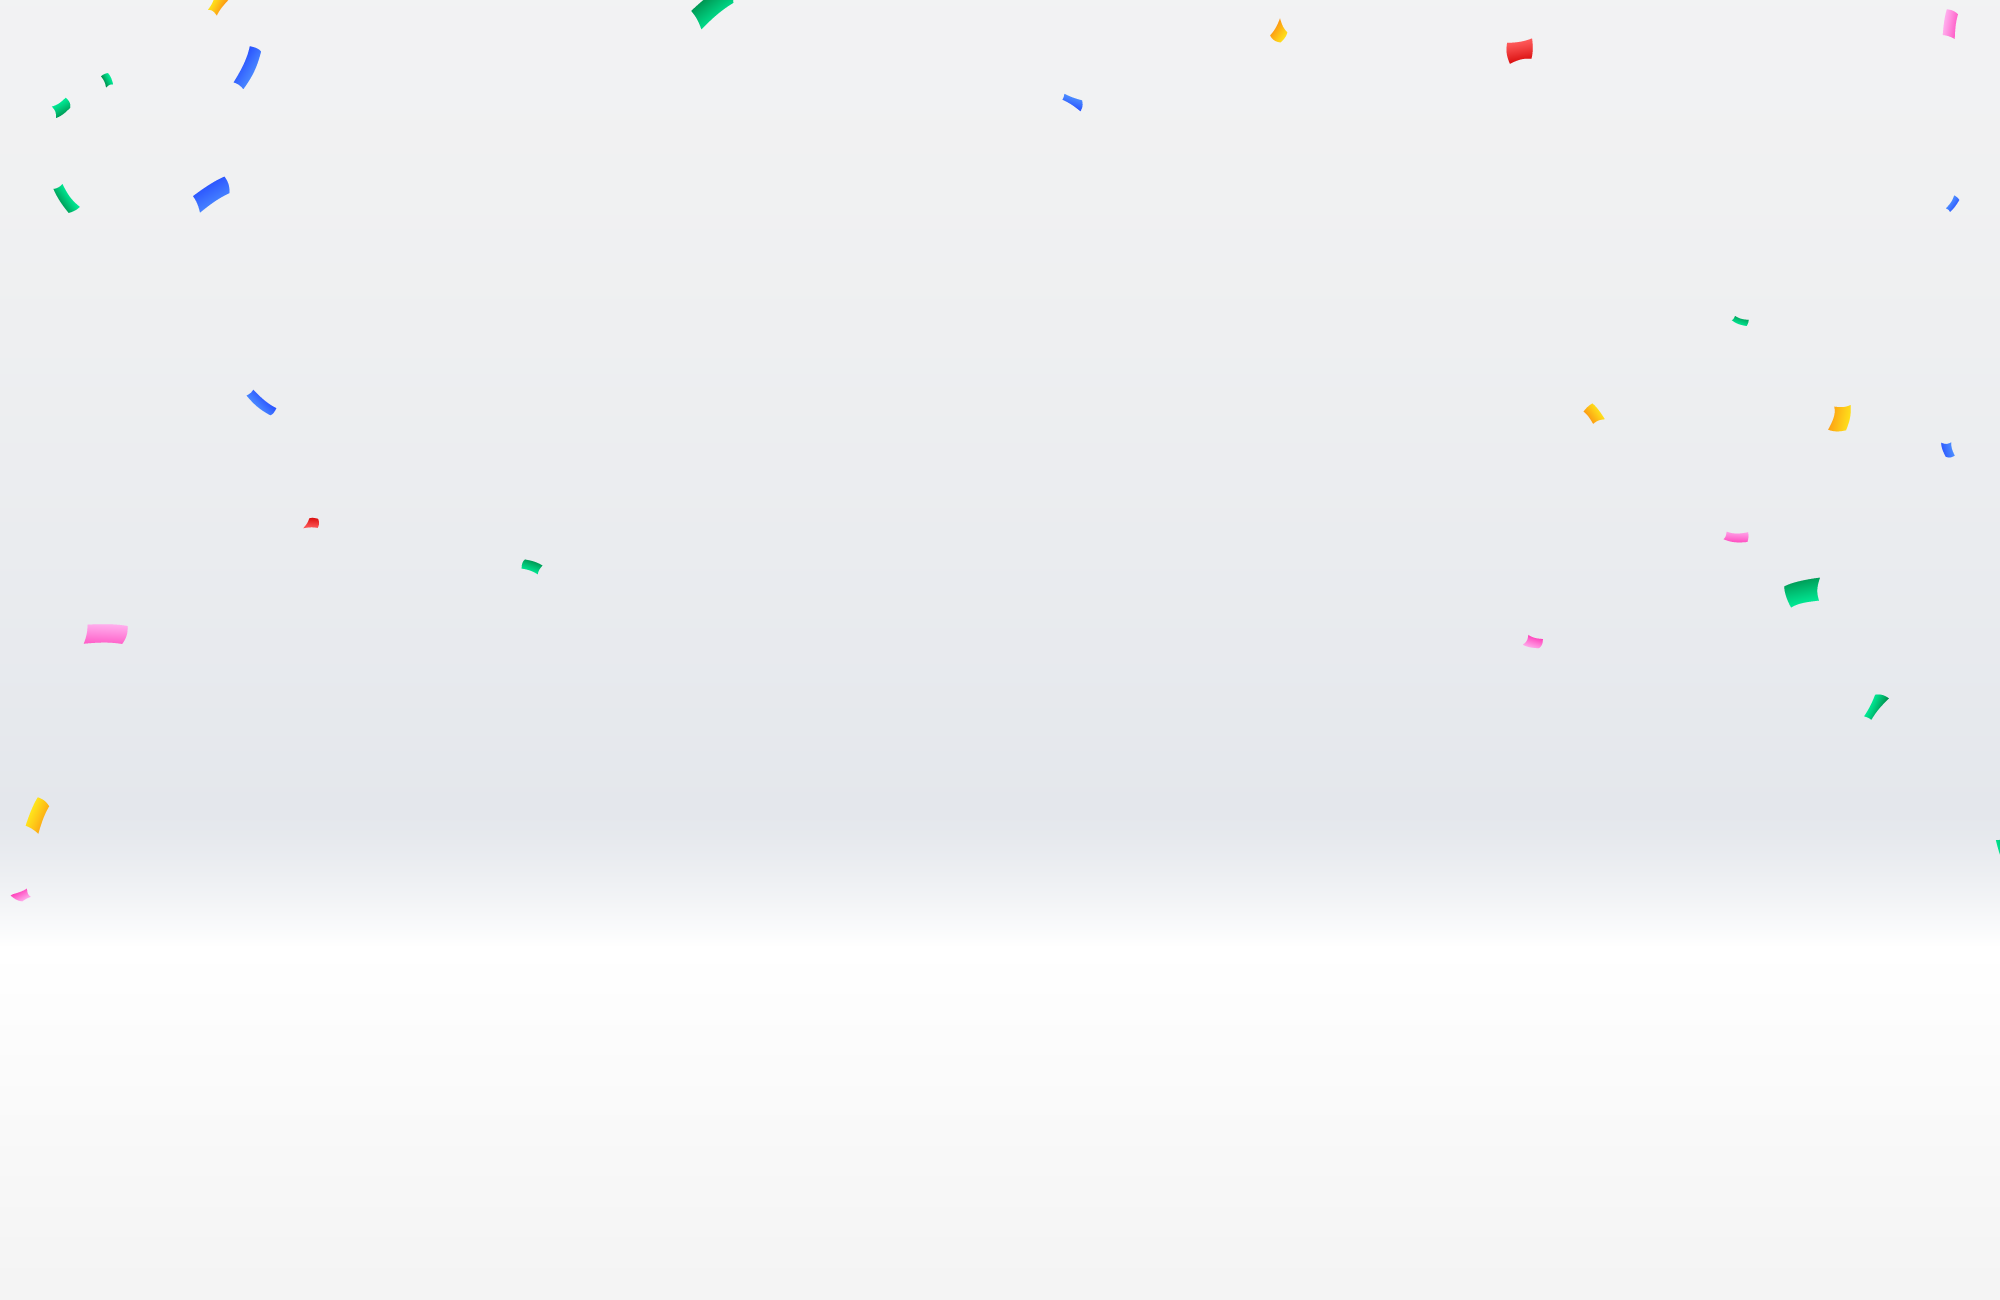
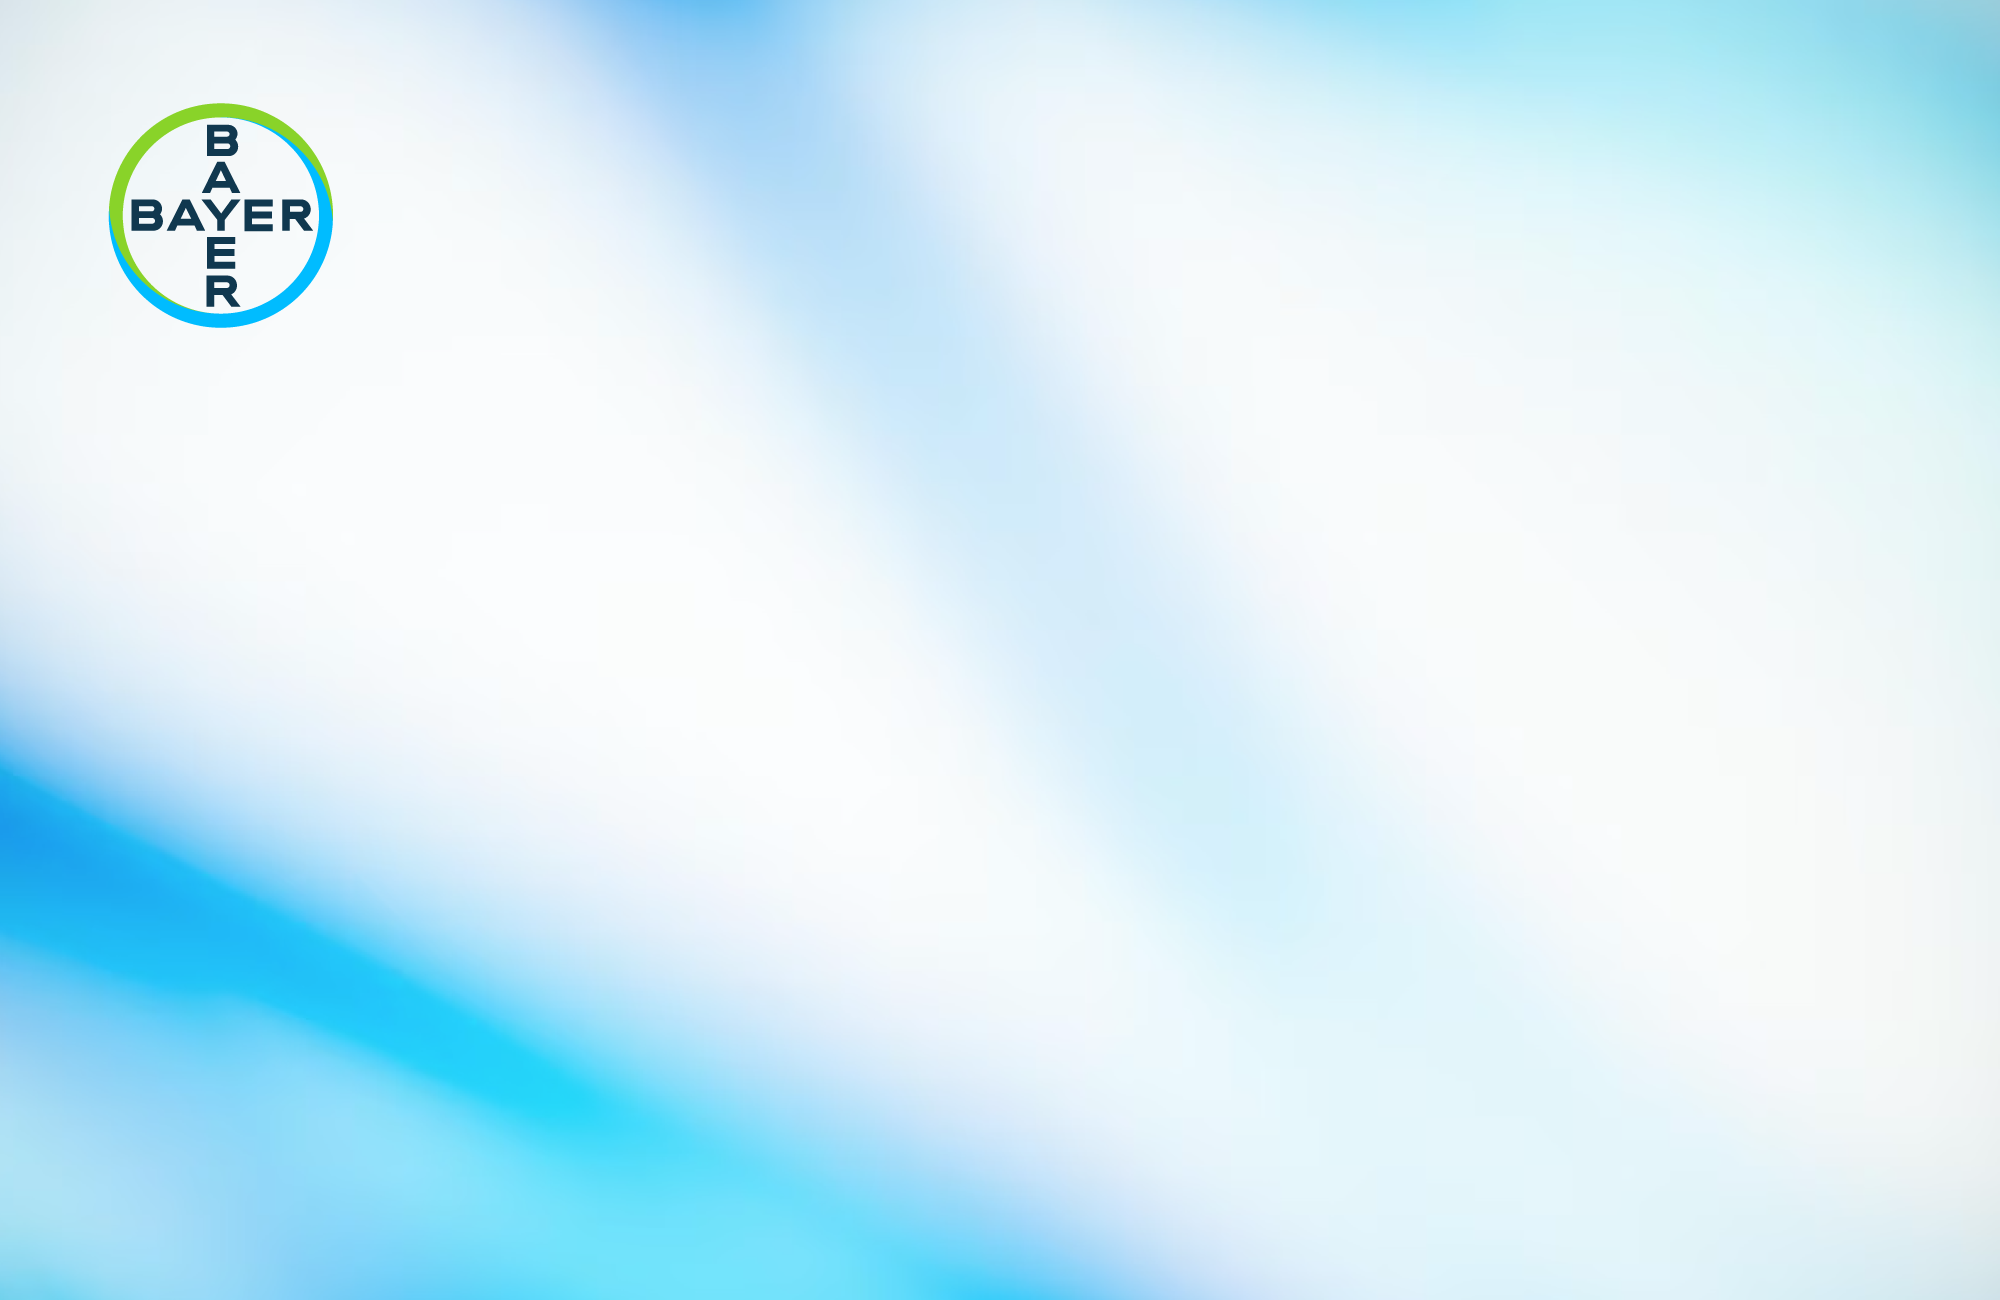
agregar fondo login

diff --git a/beneficios.html b/beneficios.html
@@ -100,7 +100,7 @@
                                     </div>
                                 </div>
                                 <div class="mini-cart" style="top: 3px">
-                                    <a class="cart-link" href="contacto.html" style="font-size: 22px"><span class="lnr lnr-exit"></span></a>
+                                    <a class="cart-link" href="login.html" style="font-size: 22px"><span class="lnr lnr-exit"></span></a>
                                 </div>
 
                                 <!--

diff --git a/beneficios2.html b/beneficios2.html
@@ -100,7 +100,7 @@
                                     </div>
                                 </div>
                                 <div class="mini-cart" style="top: 3px">
-                                    <a class="cart-link" href="contacto.html" style="font-size: 22px"><span class="lnr lnr-exit"></span></a>
+                                    <a class="cart-link" href="login.html" style="font-size: 22px"><span class="lnr lnr-exit"></span></a>
                                 </div>
 
                                 <!--

diff --git a/checkout.html b/checkout.html
@@ -105,7 +105,7 @@
                                     </div>
                                 </div>
                                 <div class="mini-cart" style="top: 3px">
-                                    <a class="cart-link" href="contacto.html" style="font-size: 22px"><span class="lnr lnr-exit"></span></a>
+                                    <a class="cart-link" href="login.html" style="font-size: 22px"><span class="lnr lnr-exit"></span></a>
                                 </div>
 
                             </div>

diff --git a/contacto.html b/contacto.html
@@ -98,7 +98,7 @@
                                     </div>
                                 </div>
                                 <div class="mini-cart" style="top: 3px">
-                                    <a class="cart-link" href="contacto.html" style="font-size: 22px"><span class="lnr lnr-exit"></span></a>
+                                    <a class="cart-link" href="login.html" style="font-size: 22px"><span class="lnr lnr-exit"></span></a>
                                 </div>
 
                                 <!--

diff --git a/funciona.html b/funciona.html
@@ -114,7 +114,7 @@
                                     </div>
                                 </div>
                                 <div class="mini-cart" style="top: 3px">
-                                    <a class="cart-link" href="contacto.html" style="font-size: 22px"><span class="lnr lnr-exit"></span></a>
+                                    <a class="cart-link" href="login.html" style="font-size: 22px"><span class="lnr lnr-exit"></span></a>
                                 </div>
 
                             </div>

diff --git a/productos.html b/productos.html
@@ -107,7 +107,7 @@
                                     </div>
                                 </div>
                                 <div class="mini-cart" style="top: 3px">
-                                    <a class="cart-link" href="contacto.html" style="font-size: 22px"><span class="lnr lnr-exit"></span></a>
+                                    <a class="cart-link" href="login.html" style="font-size: 22px"><span class="lnr lnr-exit"></span></a>
                                 </div>
 
                             </div>

diff --git a/puntos.html b/puntos.html
@@ -106,7 +106,7 @@
                                     </div>
                                 </div>
                                 <div class="mini-cart" style="top: 3px">
-                                    <a class="cart-link" href="contacto.html" style="font-size: 22px"><span class="lnr lnr-exit"></span></a>
+                                    <a class="cart-link" href="login.html" style="font-size: 22px"><span class="lnr lnr-exit"></span></a>
                                 </div>
 
                             </div>

diff --git a/checkout-ok.html b/checkout-ok.html
@@ -98,7 +98,7 @@
                                     </div>
                                 </div>
                                 <div class="mini-cart" style="top: 3px">
-                                    <a class="cart-link" href="contacto.html" style="font-size: 22px"><span class="lnr lnr-exit"></span></a>
+                                    <a class="cart-link" href="login.html" style="font-size: 22px"><span class="lnr lnr-exit"></span></a>
                                 </div>
 
                             </div>

diff --git a/favoritos.html b/favoritos.html
@@ -98,7 +98,7 @@
                                     </div>
                                 </div>
                                 <div class="mini-cart" style="top: 3px">
-                                    <a class="cart-link" href="contacto.html" style="font-size: 22px"><span class="lnr lnr-exit"></span></a>
+                                    <a class="cart-link" href="login.html" style="font-size: 22px"><span class="lnr lnr-exit"></span></a>
                                 </div>
 
                             </div>

diff --git a/index.html b/index.html
@@ -101,7 +101,7 @@
                                 </div>
 
                                 <div class="mini-cart" style="top: 3px">
-                                    <a class="cart-link" href="contacto.html" style="font-size: 22px"><span class="lnr lnr-exit"></span></a>
+                                    <a class="cart-link" href="login.html" style="font-size: 22px"><span class="lnr lnr-exit"></span></a>
                                 </div>
                             </div>
                         </div>

diff --git a/categoria.html b/categoria.html
@@ -102,7 +102,7 @@
                                 </div>
 
                                 <div class="mini-cart" style="top: 3px">
-                                    <a class="cart-link" href="contacto.html" style="font-size: 22px"><span class="lnr lnr-exit"></span></a>
+                                    <a class="cart-link" href="login.html" style="font-size: 22px"><span class="lnr lnr-exit"></span></a>
                                 </div>
 
                             </div>

diff --git a/categoria2.html b/categoria2.html
@@ -103,7 +103,7 @@
                                 </div>
 
                                 <div class="mini-cart" style="top: 3px">
-                                    <a class="cart-link" href="contacto.html" style="font-size: 22px"><span class="lnr lnr-exit"></span></a>
+                                    <a class="cart-link" href="login.html" style="font-size: 22px"><span class="lnr lnr-exit"></span></a>
                                 </div>
 
                             </div>
